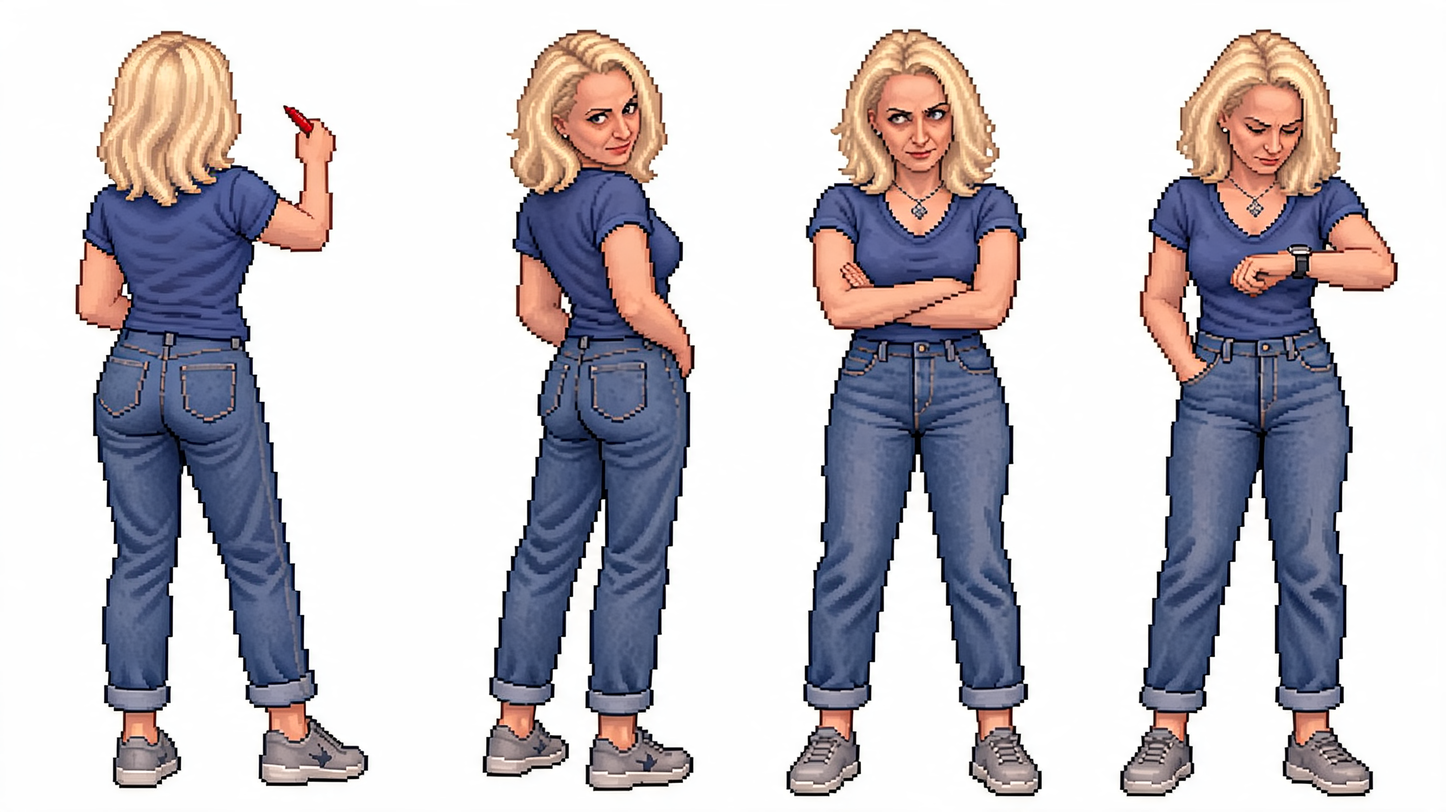
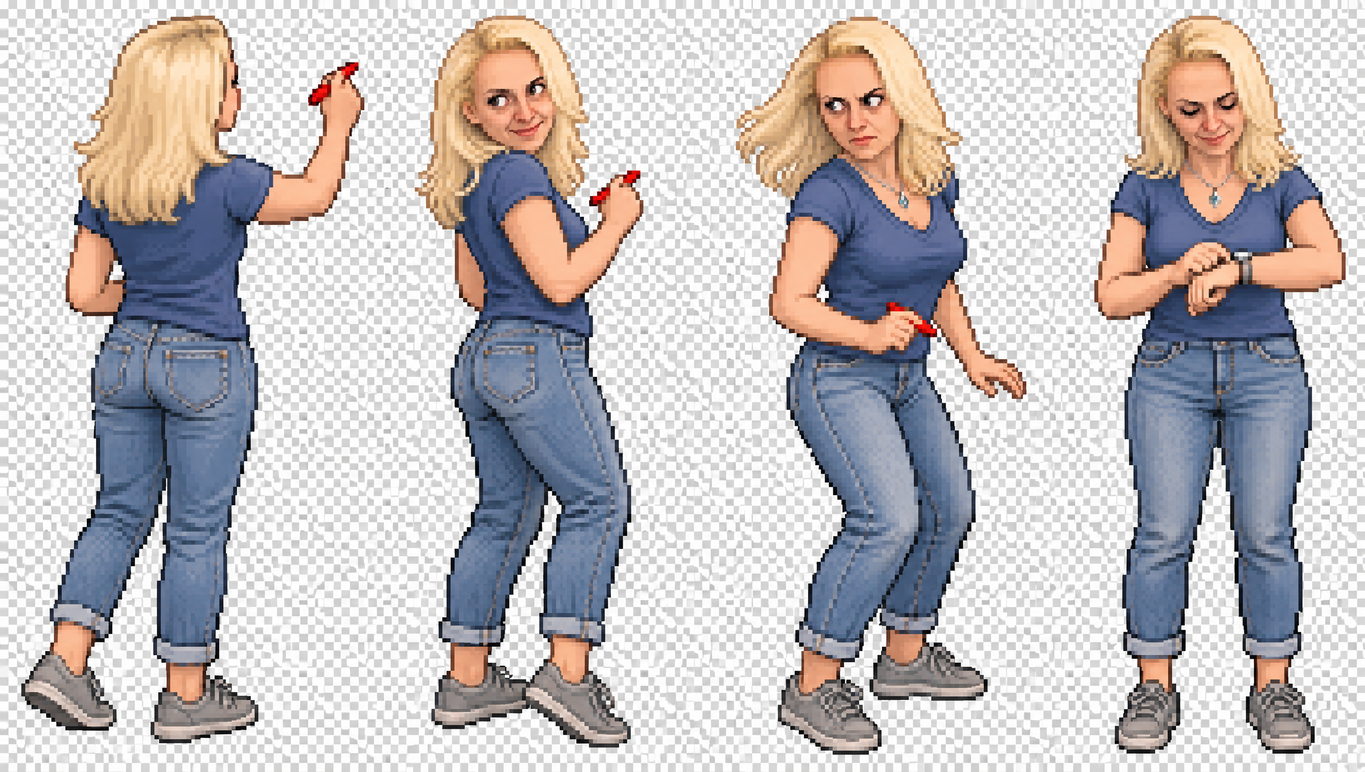
Обновлённый спрайт Вовы (v0.9.12): новый лист 2688x1520 переупакован в 768x426, конфиг подогнан под пропорцию 256x426

diff --git a/js/config.js b/js/config.js
@@ -1,6 +1,6 @@
 // Все настраиваемые числа и тексты игры — только здесь (правило ТЗ §7)
 const CONFIG = {
-	version: "v0.9.11",        // отладочный номер версии — виден на экране, bump с каждым шагом
+	version: "v0.9.12",        // отладочный номер версии — виден на экране, bump с каждым шагом
 	round: {
 		durationSec: 60,          // длина забега
 		maxDurationSec: 70,       // жёсткий потолок (требование автора)
@@ -43,9 +43,9 @@ const CONFIG = {
 		bg: "assets/sprites/bg_office.png",
 		vova: {
 			sheet: "assets/sprites/vova_poses.png", // 3 кадра в ряд: слушает / телефон / пойман
-			frame: { w: 256, h: 512 },  // размер одного кадра в исходнике (px): лист 768x512
-			pos: { x: 28, y: 316 },     // левый верх кадра на сцене (низ кадра = пол y=478)
-			size: { w: 81, h: 162 },    // пропорция кадра 1:2 (256x512)
+			frame: { w: 256, h: 426 },  // размер одного кадра в исходнике (px): лист 768x426
+			pos: { x: 20, y: 316 },     // левый верх кадра на сцене (низ кадра = пол y=478)
+			size: { w: 97, h: 162 },    // пропорция кадра 256x426
 		},
 		boss: {
 			sheet: "assets/sprites/boss_states.png", // 4 кадра: флипчарт / поворот / смотрит / фальстарт
